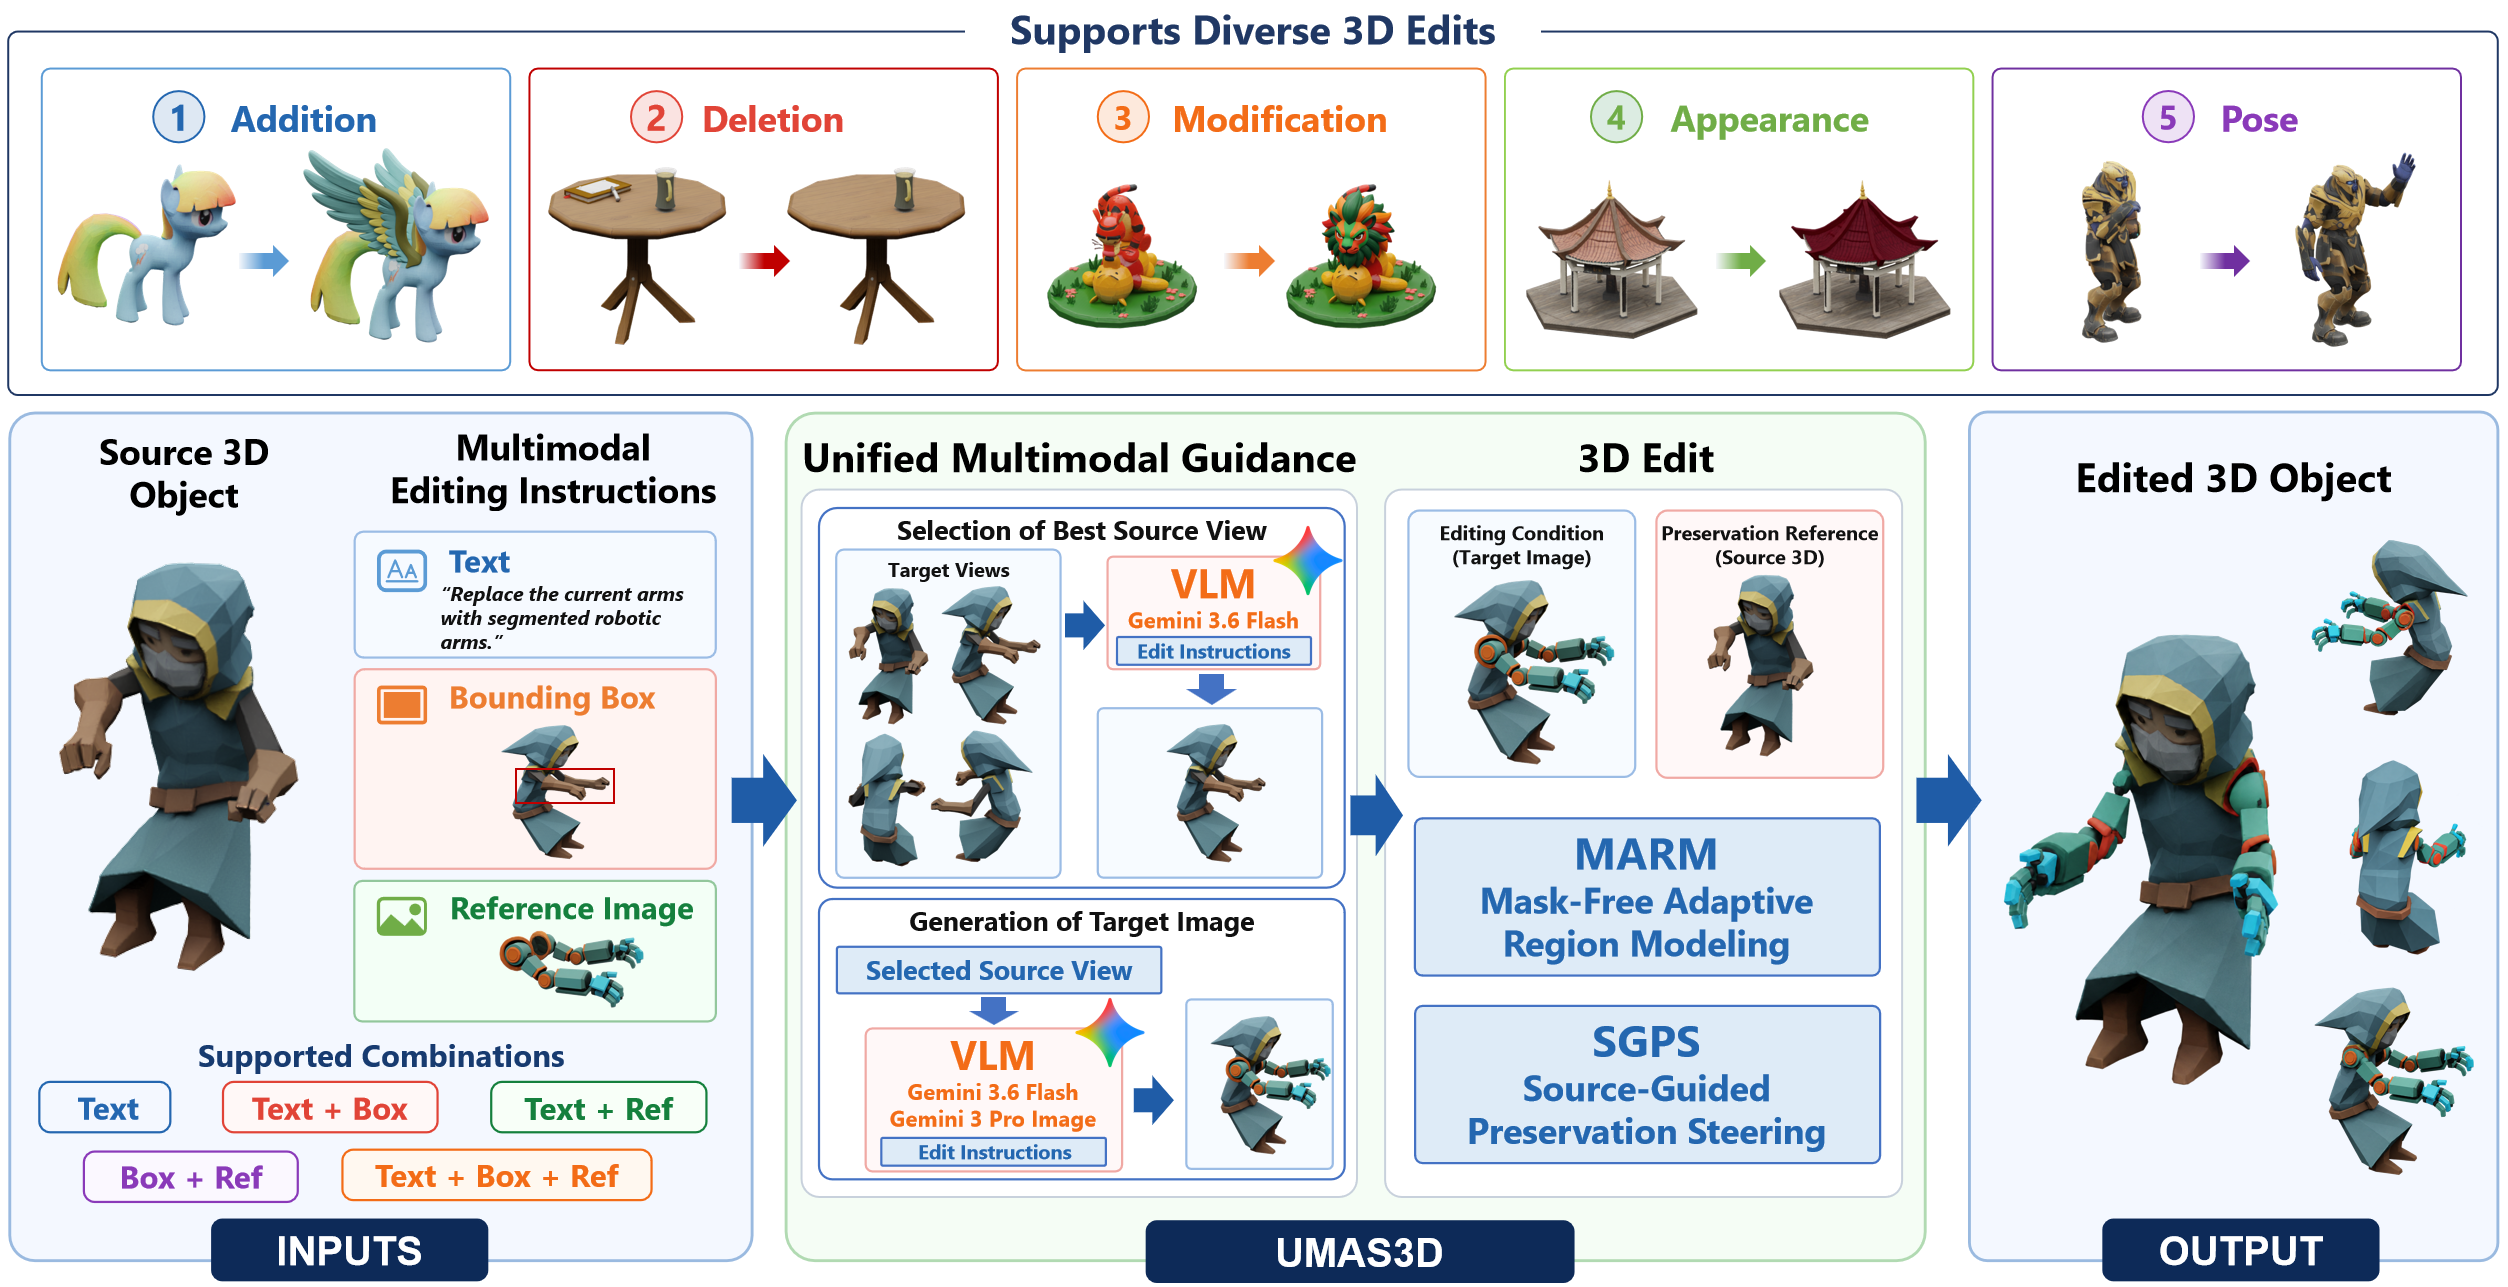
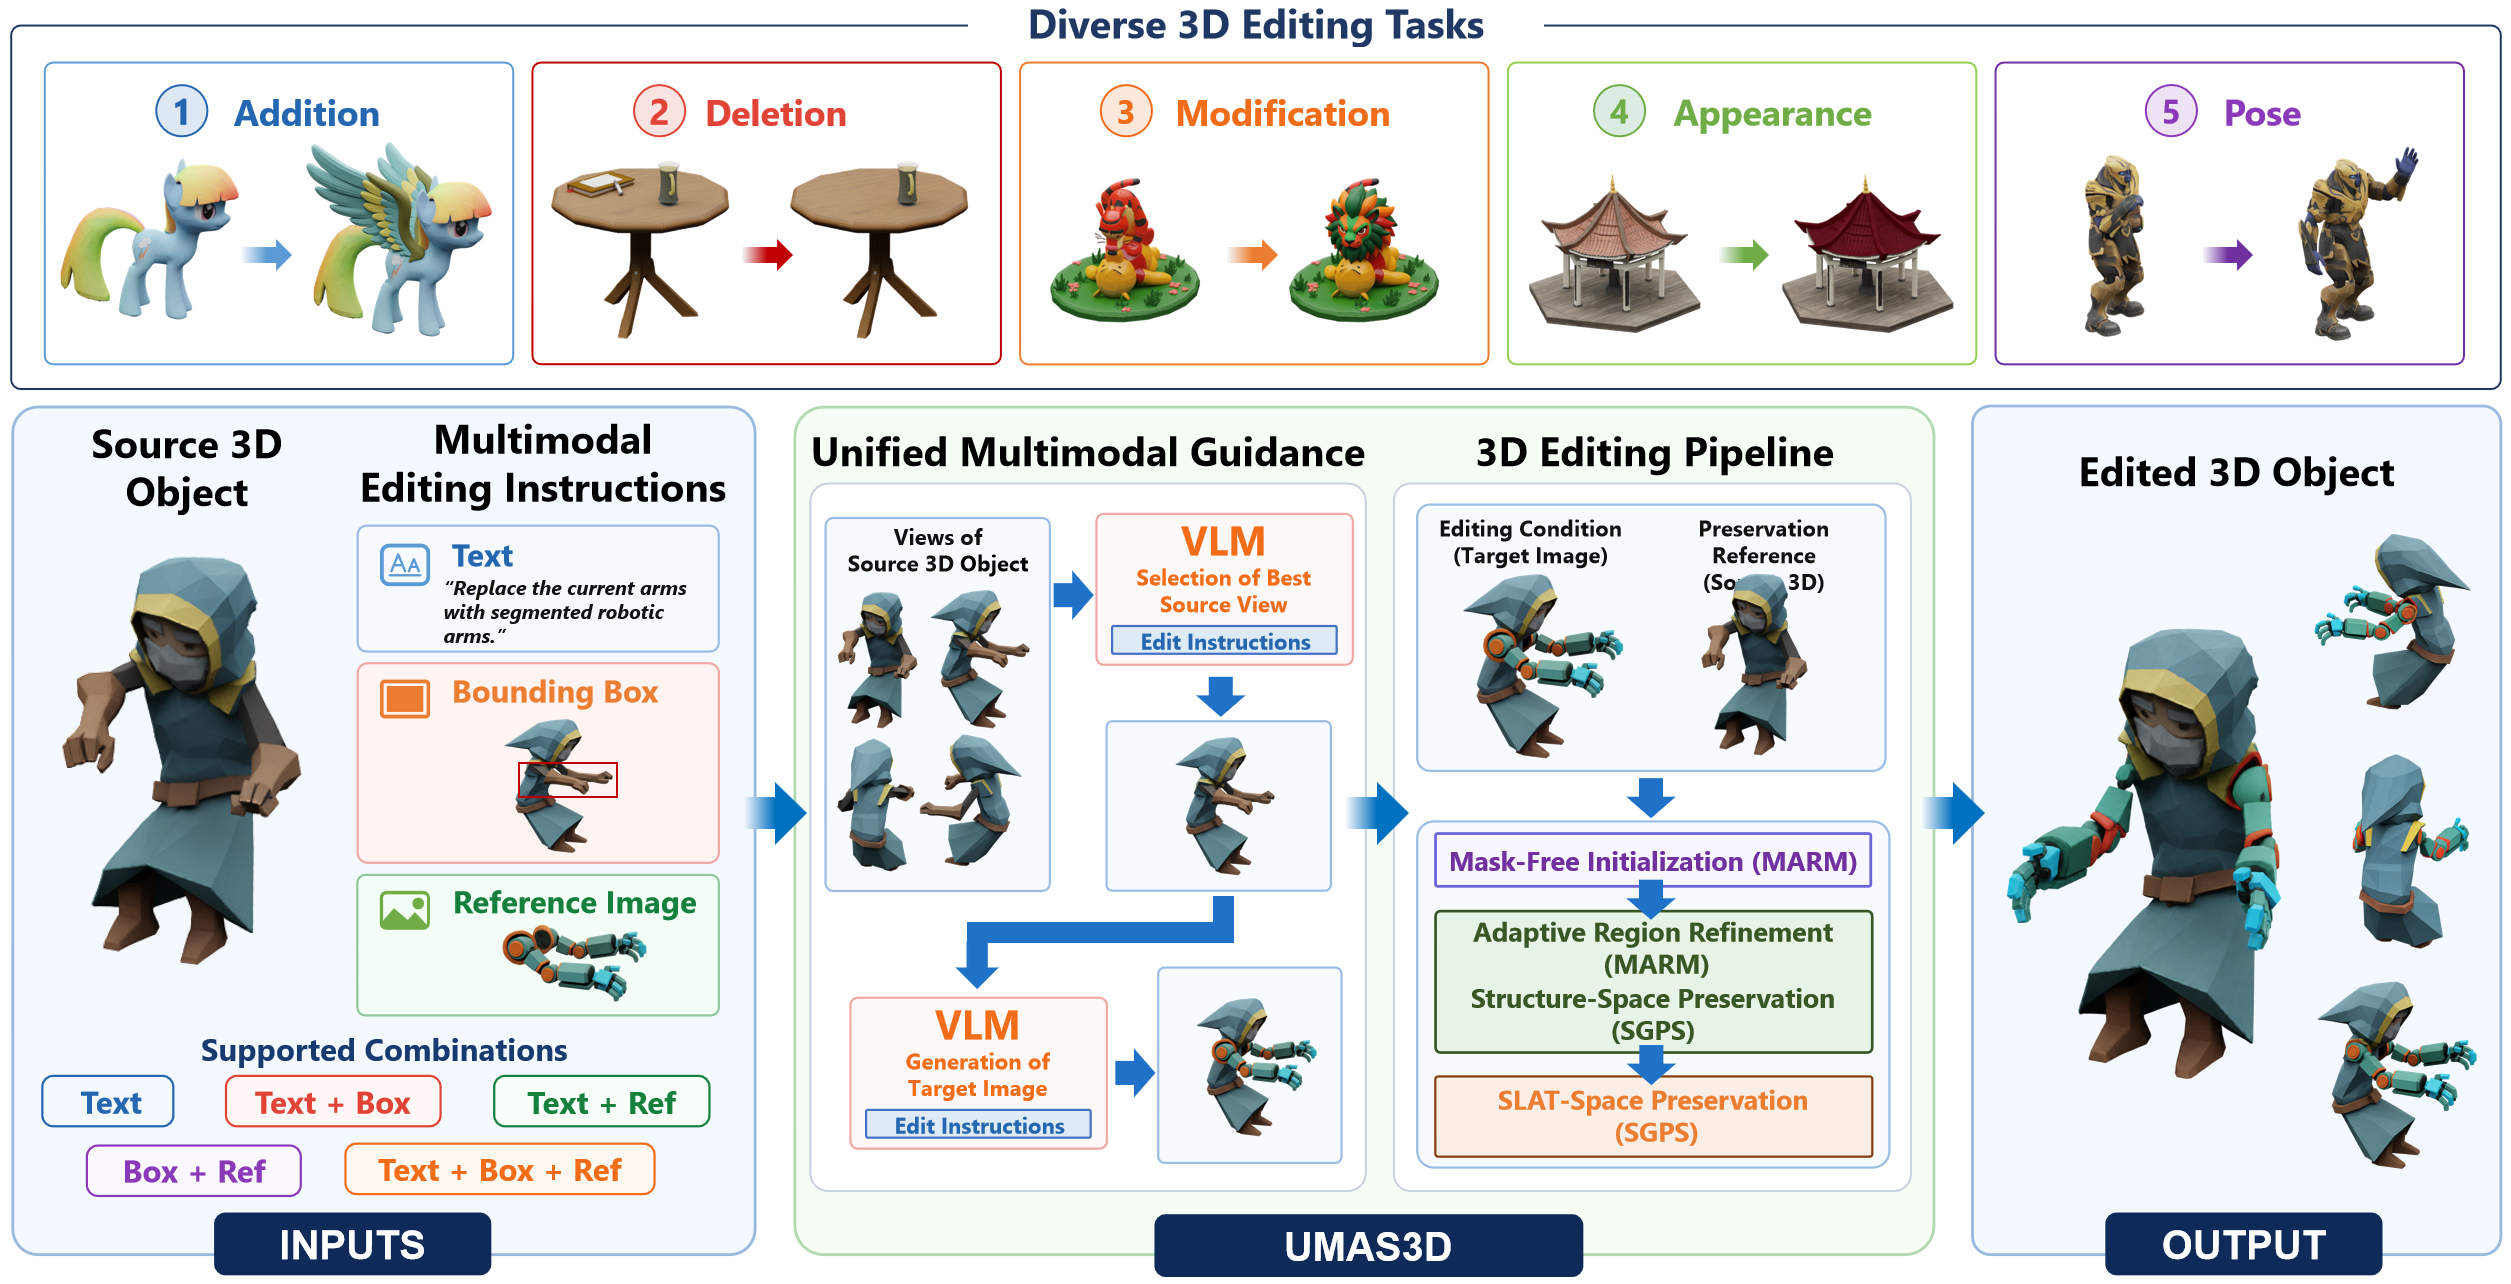
Update UMAS3D title abstract and teaser

diff --git a/index.html b/index.html
@@ -12,16 +12,16 @@
 </head>
 <body>
     <main id="main">
-        <header class="project-header"><div id="title">UMAS3D: Unified Mask-Free 3D Editing with Adaptive Source Supervision</div></header>
+        <header class="project-header"><div id="title">UMAS3D: Unified Mask-Free 3D Editing with Region-Adaptive Source Preservation</div></header>
 
         <figure class="paper-teaser">
-            <img src="assets/fig1.png" alt="UMAS3D overview figure">
+            <img src="assets/fig1.png?v=20260929a" alt="UMAS3D overview figure">
         </figure>
 
         <section id="abstract" aria-labelledby="abstract-title">
             <h2 id="abstract-title">Abstract</h2>
             <div class="abstract-box">
-                <p>3D editing modifies existing 3D assets according to user intent while preserving unaffected geometry and appearance. Existing methods often rely on task-specific training, source-3D inversion or external 3D masks, and lack a unified paradigm for diverse editing conditions and tasks. We propose UMAS3D, a unified framework that is training-free, inversion-free and free from external 3D masks. UMAS3D unifies text, bounding boxes, reference images and their combinations within a single editing pipeline. We introduce Mask-Free Adaptive Region Modeling (MARM), which builds a coarse Edit/Keep prior from source-target visual differences and adaptively refines region assignments during target 3D generation. We further introduce Source-Guided Preservation Steering (SGPS), which steers Keep-region states to preserve source-consistent geometry and appearance while leaving Edit regions target-driven. Experiments show that UMAS3D supports addition, deletion, modification, appearance and pose editing while effectively preserving unedited source content. These advances establish UMAS3D as a general paradigm for flexible and source-preserving 3D editing across diverse editing conditions.</p>
+                <p>3D editing aims to modify an existing 3D asset according to user intent while preserving geometry and appearance outside the intended edit region. Existing methods often rely on task-specific training, source-3D inversion, or external 3D masks, and lack a unified framework for diverse editing conditions and tasks. We propose UMAS3D, a unified 3D editing framework that is training-free, inversion-free, and free from external 3D masks. UMAS3D converts text, bounding boxes, reference images, and their combinations into common target-view guidance, after which addition, deletion, modification, appearance, and pose editing share the same downstream 3D generation process. Our key insight is to couple online edit-region estimation with region-aware source preservation. Mask-Free Adaptive Region Modeling (MARM) initializes an Edit/Keep prior from source-target visual differences and progressively refines it as the target structure evolves, while Source-Guided Preservation Steering (SGPS) constrains the current Keep-region states to retain source geometry and appearance without suppressing target-driven changes. Experiments show that UMAS3D supports addition, deletion, modification, appearance, and pose editing while effectively preserving unedited source content. These advances make UMAS3D a unified framework for flexible and source-preserving 3D editing across diverse editing conditions. Project Page: <a href="https://paperprojectpage.github.io/UMAS3D/">https://paperprojectpage.github.io/UMAS3D</a></p>
             </div>
         </section>
 
